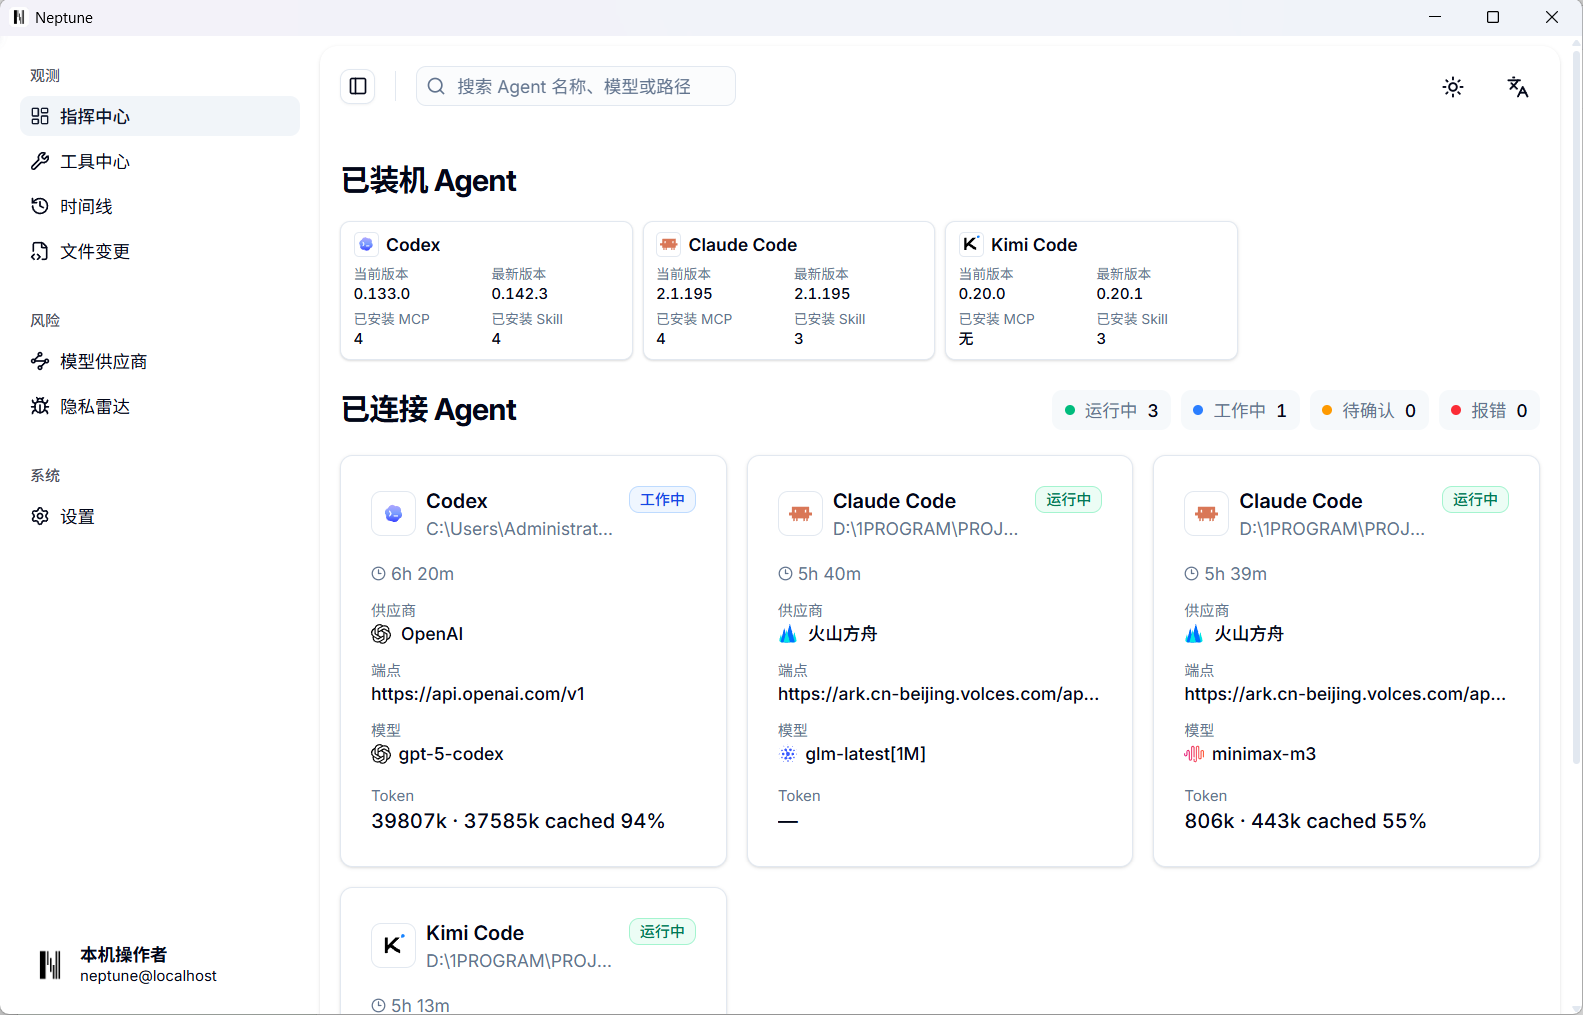
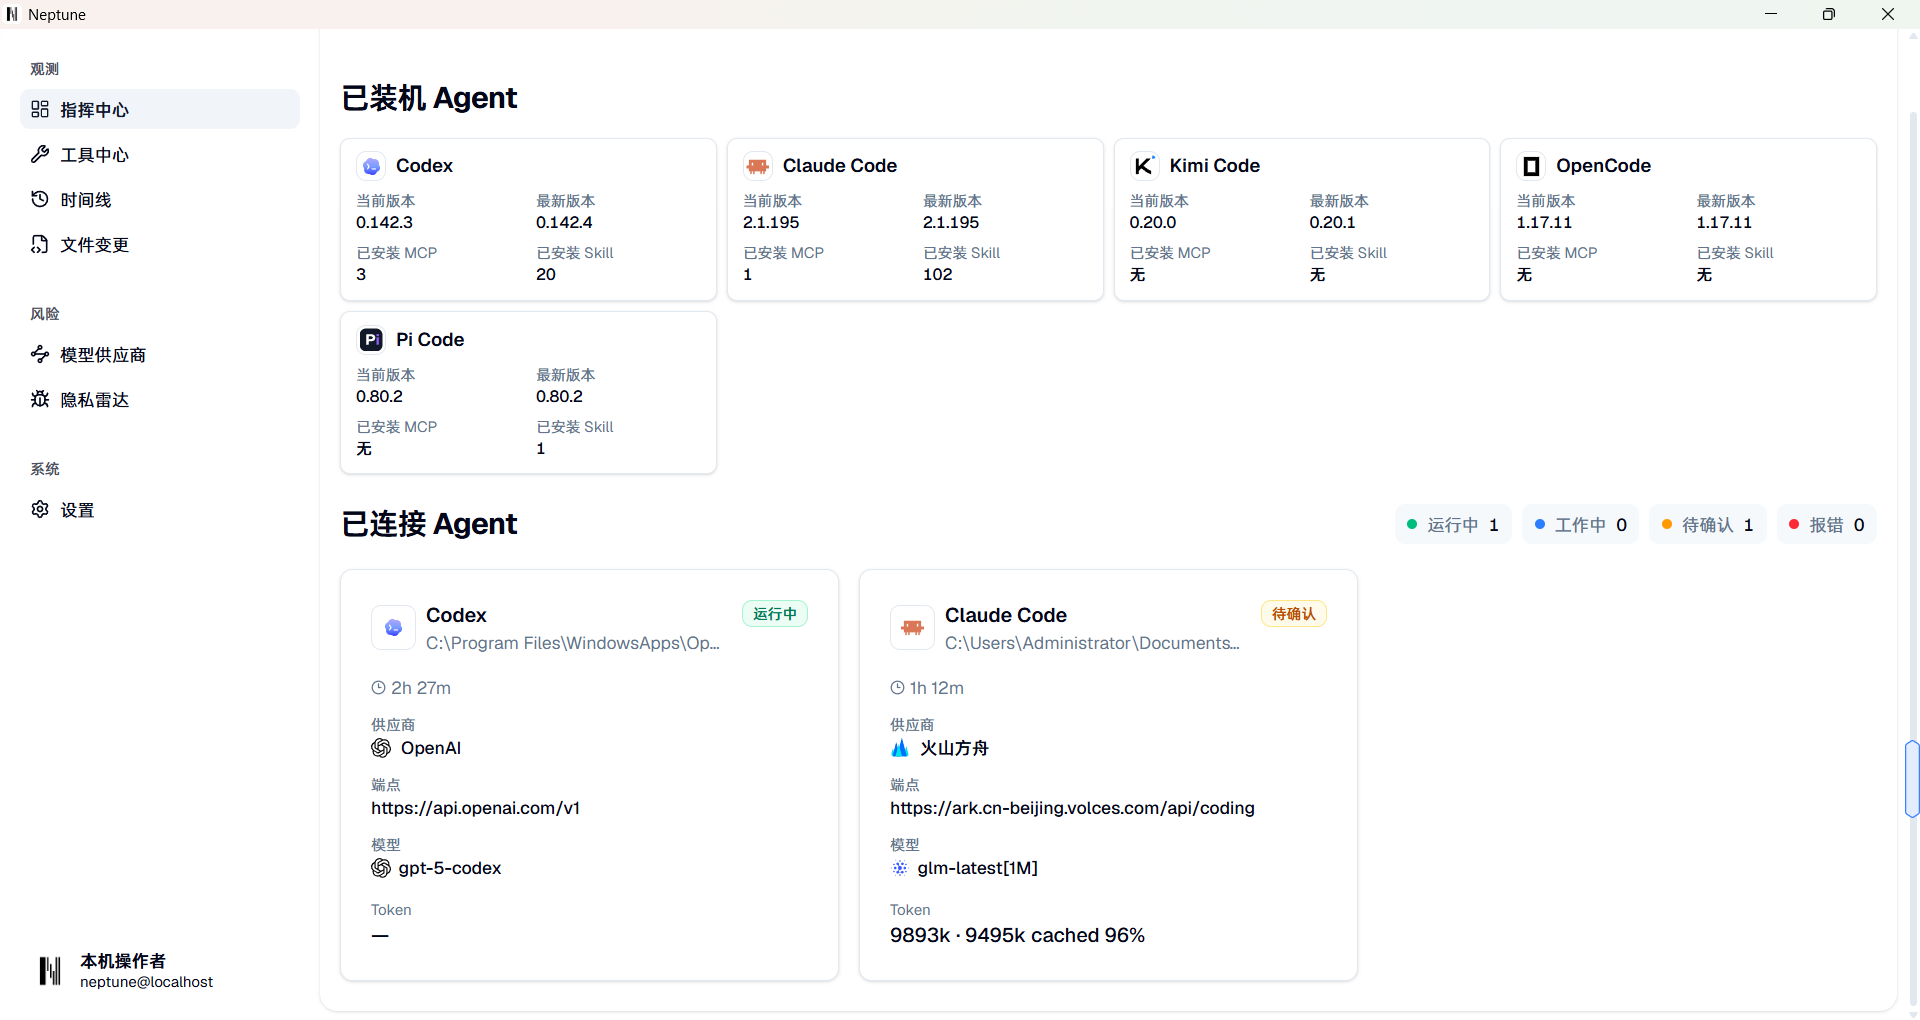
fix: use widescreen project previews

diff --git a/app/components/home/ProjectSection.vue b/app/components/home/ProjectSection.vue
@@ -10,6 +10,7 @@ const props = defineProps<{
 }>()
 
 const { width: windowWidth, height: windowHeight } = useWindowSize()
+const PROJECT_PREVIEW_RATIO = 16 / 9
 
 const viewportHeight = computed(() => {
   return Number.isFinite(windowHeight.value) && windowHeight.value > 0 ? windowHeight.value : 900
@@ -60,7 +61,7 @@ const projectPreviewStyle = computed(() => {
 
   if (isMobilePreview) {
     const previewWidth = Math.max(Math.min(viewportWidth.value - margin * 2, 544), 180)
-    const previewHeight = previewWidth * 0.5625
+    const previewHeight = previewWidth / PROJECT_PREVIEW_RATIO
     const centeredX = (viewportWidth.value - previewWidth) / 2
     const maxY = Math.max(viewportHeight.value - previewHeight - margin, margin)
     const aboveClickY = Math.min(Math.max(projectPreviewPosition.value.y - previewHeight - 6, margin), maxY)
@@ -68,13 +69,14 @@ const projectPreviewStyle = computed(() => {
     return {
       opacity: hoveredProjectIndex.value === null ? 0 : 1,
       width: `${previewWidth}px`,
+      height: `${previewHeight}px`,
       transform: `translate3d(${centeredX}px, ${aboveClickY}px, 0) scale(${hoveredProjectIndex.value === null ? 0.96 : 1})`
     }
   }
 
   const desktopGap = 2
   const previewWidth = Math.max(Math.min(544, viewportWidth.value - margin * 2), 260)
-  const previewHeight = previewWidth * 0.5625
+  const previewHeight = previewWidth / PROJECT_PREVIEW_RATIO
   const maxY = Math.max(viewportHeight.value - previewHeight - margin, margin)
   const rightX = projectPreviewPosition.value.x + desktopGap
   const leftX = projectPreviewPosition.value.x - previewWidth - desktopGap
@@ -86,6 +88,7 @@ const projectPreviewStyle = computed(() => {
   return {
     opacity: hoveredProjectIndex.value === null ? 0 : 1,
     width: `${previewWidth}px`,
+    height: `${previewHeight}px`,
     transform: `translate3d(${x}px, ${y}px, 0) scale(${hoveredProjectIndex.value === null ? 0.96 : 1})`
   }
 })
@@ -301,7 +304,7 @@ onBeforeUnmount(() => {
       </div>
       <div
         v-else-if="hoveredProject?.previewImages?.length"
-        class="grid aspect-video gap-2 p-2"
+        class="grid h-full w-full gap-2 p-2"
         :class="hoveredProject.previewImages.length >= 3 ? 'grid-cols-3' : 'grid-cols-2'"
       >
         <img
@@ -309,14 +312,14 @@ onBeforeUnmount(() => {
           :key="image"
           :src="image"
           :alt="locale === 'en' ? `${hoveredProject.title} project screenshot` : `${hoveredProject.title} 项目截图`"
-          class="h-full min-h-0 w-full object-contain opacity-85"
+          class="h-full min-h-0 w-full bg-white/70 object-contain opacity-90"
         >
       </div>
       <img
         v-else-if="hoveredProject"
         :src="hoveredProject.image"
         :alt="locale === 'en' ? `${hoveredProject.title} project screenshot` : `${hoveredProject.title} 项目截图`"
-        class="block aspect-video w-full object-cover opacity-85"
+        class="block h-full w-full bg-white/70 object-contain opacity-90"
       >
     </div>
   </section>